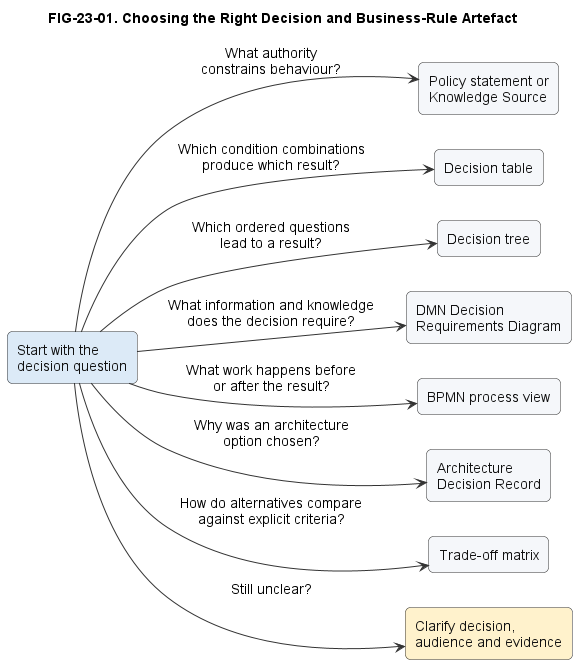
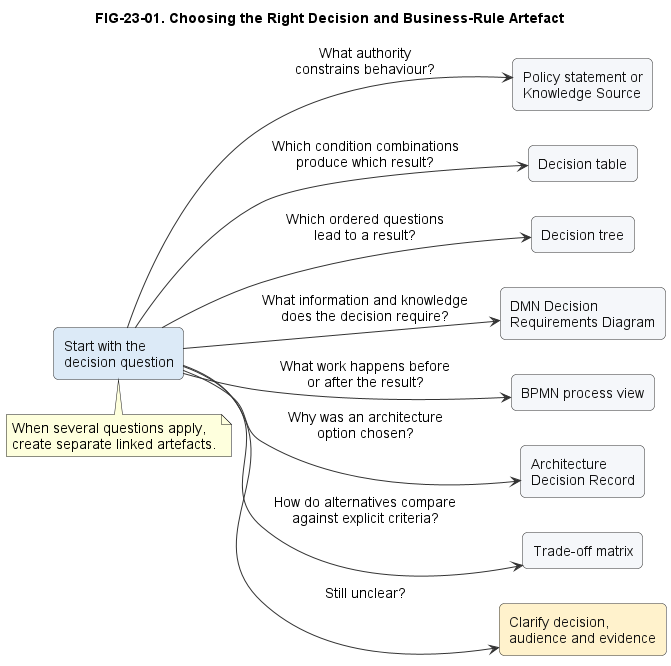
Regenerate Chapter 23 diagram from specification

diff --git a/reviews/chapter-gates/CH-23-quality-gate.md b/reviews/chapter-gates/CH-23-quality-gate.md
@@ -11,7 +11,7 @@
 - Technical, beginner, consistency and final reviews pass.
 - The canonical ADR source note is `research/other-modelling/nygard-adr-2011.md`; its recorded 2026-07-02 access date is preserved.
 - `FIG-23-01` specification records the author's 2026-07-11 production authorisation.
-- PlantUML source rendered to SVG and PNG. Visual inspection confirmed no clipped text, overlaps, unreadable labels or ambiguous arrow direction; contrast and terminology are consistent. Figure status is `Review`, never `Approved`.
+- Following the recorded chronology correction, PlantUML source was regenerated from the committed completed specification at 2026-07-11 09:18 local time, producing fresh SVG and PNG exports. Visual inspection confirmed no clipped text, overlaps, unreadable labels or ambiguous arrow direction; contrast and terminology are consistent. The added note makes the separate-linked-artefacts exception explicit. Figure status is `Review`, never `Approved`.
 - Six repository checks pass and `git diff --check` reports no whitespace errors.
 
 ## Remaining gate

diff --git a/reviews/final-review/chapter-23-review-2026-07-11.md b/reviews/final-review/chapter-23-review-2026-07-11.md
@@ -6,3 +6,4 @@
 - British English, acronym expansion and no-em-dash requirements pass repository checks.
 - Official DMN and BPMN research is reused; the canonical registered ADR source note is `research/other-modelling/nygard-adr-2011.md`.
 - No unresolved technical, beginner, consistency, source or diagram findings remain.
+- Regenerated `FIG-23-01` SVG and PNG were visually re-inspected at 2026-07-11 09:18 local time after the completed specification was committed. The output is readable and remains at `Review`.